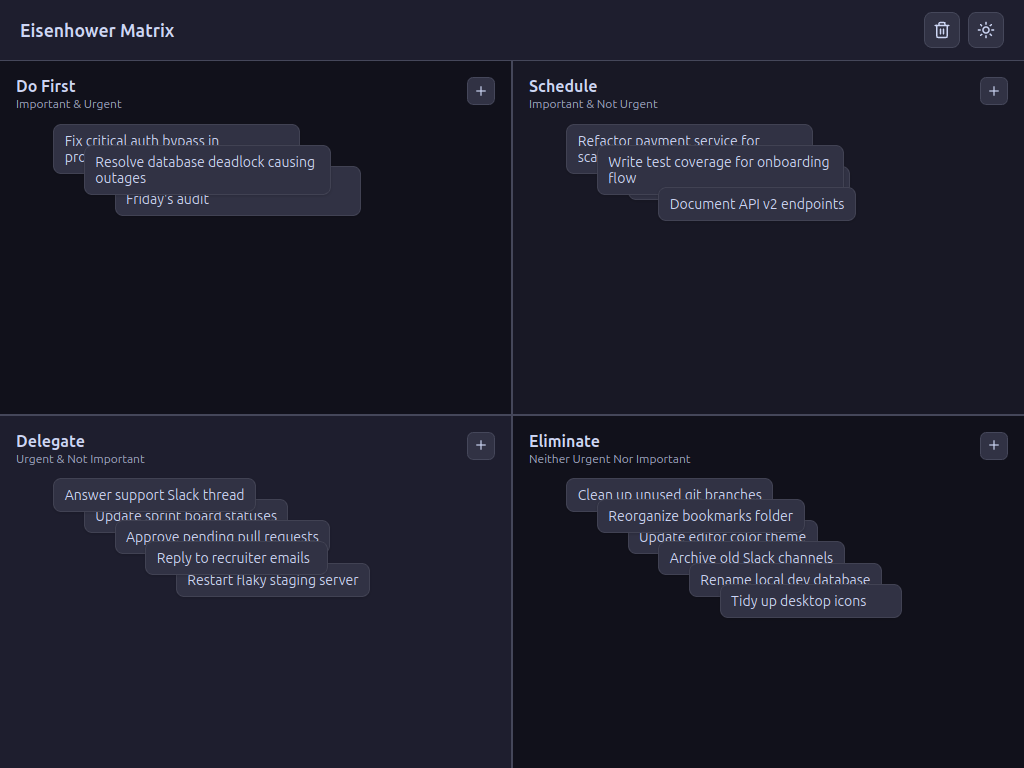
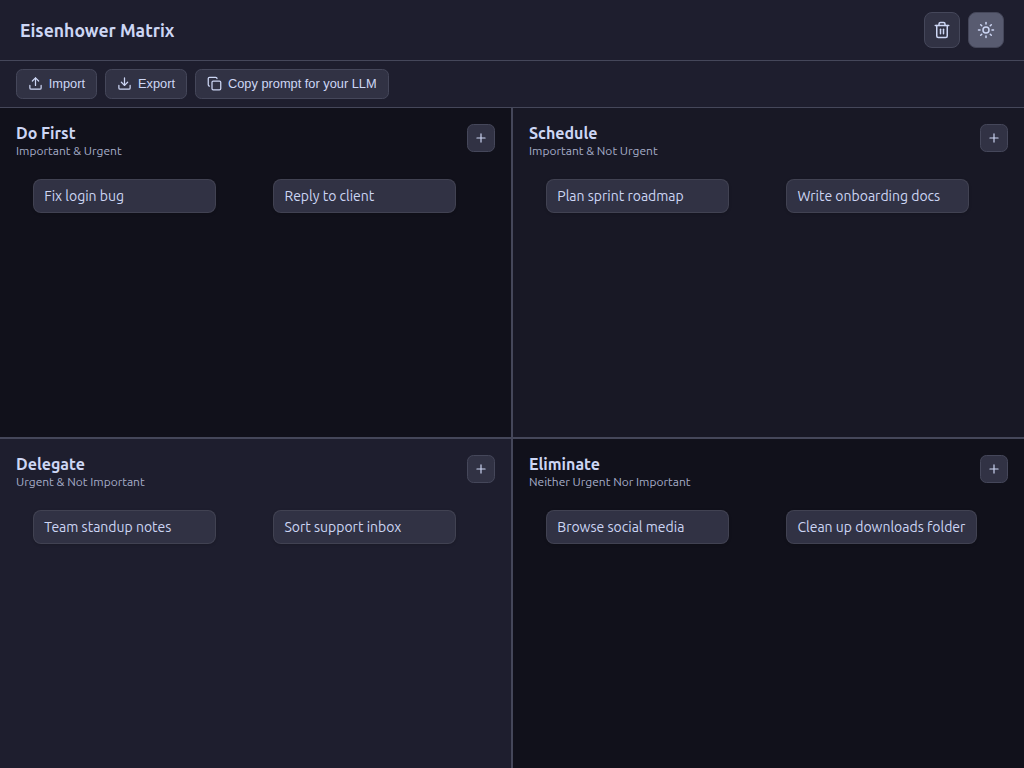
Updating README assets

diff --git a/README.md b/README.md
@@ -39,6 +39,10 @@ A desktop Eisenhower Matrix app built with Wails (Go backend) and Vue 3 + TypeSc
 | --- | --- |
 | ![Light mode](screenshots/light-mode.png) | ![Dark mode](screenshots/dark-mode.png) |
 
+Paste markdown to bulk-import tasks into their quadrants:
+
+![Import text](screenshots/import-text.png)
+
 ## Download
 
 Prebuilt binaries for Windows, macOS (Apple Silicon), and Linux are published on the [Releases page](https://github.com/lundjrl/eisenhower-matrix/releases) for every change that lands on `main` — no build step required.
